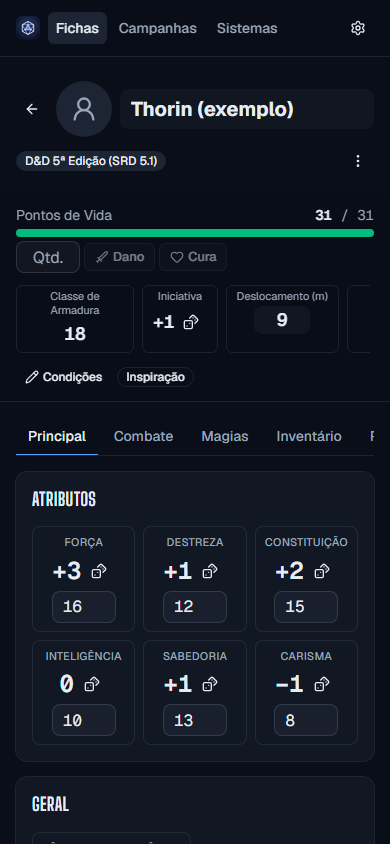
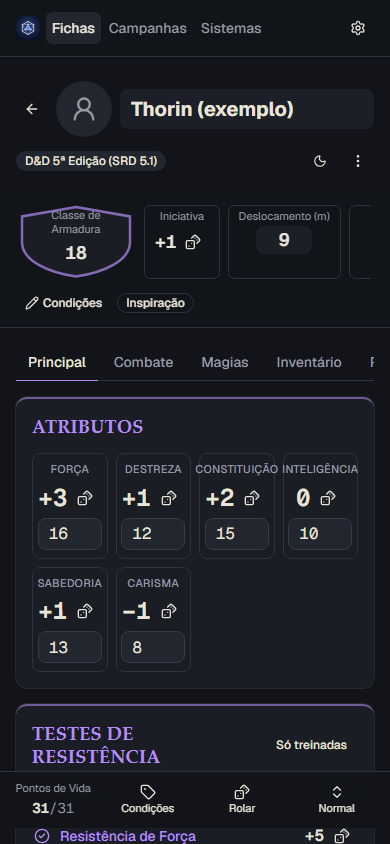
docs: capturas do guia no visual novo, geradas por script

diff --git a/apps/e2e/tests/capturas.spec.ts b/apps/e2e/tests/capturas.spec.ts
@@ -1,0 +1,107 @@
+import { expect, test, type Page } from '@playwright/test';
+import { createCampaign, inviteLink, joinWithInvite, newDevice, startTable } from './helpers';
+
+/**
+ * Capturas de tela do guia (docs/imagens), com o app de verdade. Não roda nos testes normais:
+ *
+ *   CAPTURAS=1 corepack pnpm --filter @tabula/e2e e2e capturas
+ *
+ * Grava por cima das imagens de docs/imagens. Mestre e jogadora em aparelhos separados.
+ */
+const OUT = new URL('../../../docs/imagens/', import.meta.url);
+const shot = (page: Page, name: string) =>
+  page.screenshot({ path: new URL(name, OUT).pathname.replace(/^\/([A-Za-z]:)/, '$1') });
+
+test.skip(!process.env.CAPTURAS, 'Só com CAPTURAS=1 (gera as imagens do guia).');
+test.use({ viewport: { width: 1280, height: 720 } });
+
+/** Espera as fontes e as transições assentarem antes de fotografar. */
+async function settle(page: Page) {
+  await page.evaluate(() => document.fonts.ready);
+  await page.waitForTimeout(600);
+}
+
+test('boas-vindas, ficha de exemplo e celular', async ({ browser }) => {
+  const page = await newDevice(browser);
+  await page.goto('');
+  await expect(page.getByRole('button', { name: 'Ver uma ficha de exemplo' })).toBeVisible();
+  await settle(page);
+  await shot(page, 'boas-vindas.png');
+
+  await page.getByRole('button', { name: 'Ver uma ficha de exemplo' }).click();
+  await expect(page.getByRole('region', { name: 'Resumo do personagem' })).toBeVisible();
+  await settle(page);
+  await shot(page, 'ficha.png');
+
+  await page.setViewportSize({ width: 390, height: 844 });
+  await page.reload();
+  await expect(page.getByRole('toolbar', { name: 'Ações rápidas' })).toBeVisible();
+  await settle(page);
+  await shot(page, 'celular.png');
+});
+
+test('convite, sessão do Mestre, combate, campanha da jogadora, dados e chat', async ({
+  browser,
+}) => {
+  const gm = await newDevice(browser);
+  const player = await newDevice(browser);
+  await createCampaign(gm);
+  await settle(gm);
+  await shot(gm, 'convite.png');
+
+  await joinWithInvite(player, await inviteLink(gm), 'Ana', 'Lia');
+  await startTable(gm, player, 'Ana');
+  await settle(gm);
+  await shot(gm, 'mestre-sessao.png');
+
+  // Combate: a jogadora e um Orc do bestiário, já com a ordem rodando.
+  await gm.getByRole('button', { name: 'Iniciar combate' }).click();
+  await gm.getByRole('textbox', { name: 'Iniciativa de Lia' }).fill('14');
+  await gm.getByRole('textbox', { name: 'Criatura' }).fill('Orc');
+  // O Orc age primeiro: a captura da jogadora fica sem o aviso de "É a sua vez!".
+  await gm.getByRole('textbox', { name: 'Iniciativa', exact: true }).fill('17');
+  await gm.getByRole('button', { name: 'Adicionar', exact: true }).click();
+  await gm.getByRole('button', { name: 'Começar' }).click();
+  await settle(gm);
+  await shot(gm, 'combate.png');
+
+  await expect(player.getByRole('list', { name: 'Ordem de turno' })).toContainText('Lia');
+  await settle(player);
+  await shot(player, 'jogador-campanha.png');
+
+  // Chat: uma fala de cada lado.
+  await gm.getByRole('button', { name: /Abrir chat/ }).click();
+  await gm.getByPlaceholder(/Mensagem, \/me/).fill('A porta da mina range. Quem entra primeiro?');
+  await gm.keyboard.press('Enter');
+  await player.getByRole('button', { name: /Abrir chat/ }).click();
+  await player.getByPlaceholder(/Mensagem, \/me/).fill('/me acende a lanterna e vai na frente');
+  await player.keyboard.press('Enter');
+  await expect(gm.getByText('acende a lanterna')).toBeVisible();
+  await settle(gm);
+  await shot(gm, 'chat.png');
+  await gm.getByRole('button', { name: 'Fechar chat' }).click();
+  await player.getByRole('button', { name: 'Fechar chat' }).click();
+
+  // Dados: a jogadora rola um teste pela ficha; o resultado aparece à direita.
+  await player.getByRole('link', { name: 'Abrir ficha' }).click();
+  // Sem o aviso "É a sua vez!" na frente.
+  const turn = player.getByRole('alert').filter({ hasText: 'É a sua vez!' });
+  if (await turn.isVisible()) {
+    // O aviso pulsa (nunca fica "estável" para o Playwright): clique forçado.
+    await turn.getByRole('button', { name: 'Fechar aviso' }).click({ force: true });
+  }
+  await player.getByRole('button', { name: 'Rolar Mod. Força' }).first().click();
+  await player.waitForTimeout(2500);
+  await shot(player, 'dados.png');
+});
+
+test('criador de sistemas', async ({ browser }) => {
+  const page = await newDevice(browser);
+  await page.goto('#/sistemas');
+  await page.getByRole('button', { name: 'Criar sistema' }).click();
+  await page.getByLabel('Nome do sistema').fill('Minha Fantasia');
+  await page.getByRole('button', { name: 'Começar a editar' }).click();
+  await expect(page).toHaveURL(/#\/sistemas\/editor\//);
+  await settle(page);
+  await shot(page, 'criador.png');
+});
